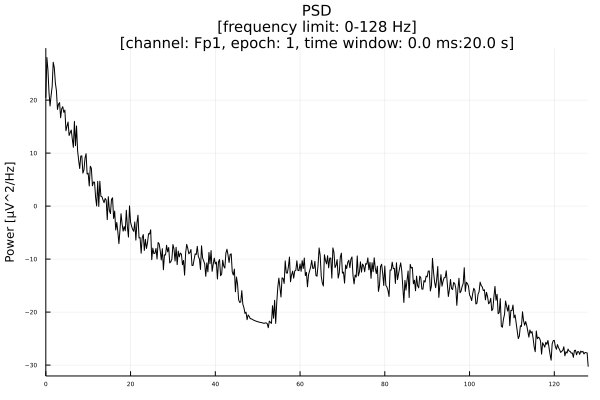
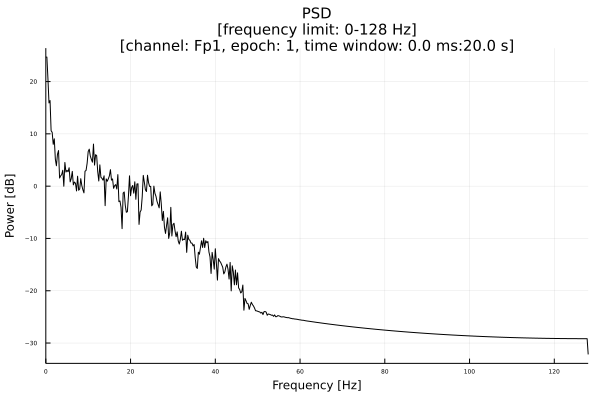
update: Tutorial.md

diff --git a/Tutorial.md b/Tutorial.md
@@ -37,6 +37,7 @@ The tutorial is divided into five major steps of typical pipeline:
 Load EDF file:
 ```julia
 edf = eeg_import_edf("test/eeg-test-edf.edf")
+eeg_delete_channel!(edf, channel=[17, 18, 22, 23, 24]);
 ```
 
 Load electrode positions (CED, LOCS and ELC formats are supported):
@@ -48,11 +49,12 @@ eeg_plot_save(p, file_name="images/edf_electrodes.png")
 
 ![edf electrodes](images/edf_electrodes.png)
 
-Swap axes:
+If necessary, swap axes:
 ```julia
 eeg_loc_swap_axes!(edf)
-eeg_plot_electrodes(edf, labels=true, head=true, selected=1:19, size=(400, 400))
+p = eeg_plot_electrodes(edf, labels=true, head=true, selected=1:19, size=(400, 400))
 ```
+![](images//edf_electrodes_xy.png)
 
 Save EEG object as HDF5-based file:
 ```julia
@@ -91,7 +93,7 @@ Edit EEG header:
 ```julia
 eeg_show_header(edf)
 eeg_edit_header!(edf, field=:patient, value="N.N.")
-eeg_edit_header!(edf, field=:comment, value="This is a tutorial EEG dataset.")
+eeg_edit_header!(edf, field=:note, value="This is a tutorial EEG dataset.")
 ```
 
 Add note:
@@ -119,11 +121,6 @@ edf.eeg_header[:eeg_duration_seconds]
 Show labels:
 ```julia
 eeg_labels(edf)
-```
-
-Show comment:
-```julia
-eeg_comment(edf)
 ```
 
 Get channel (by name or number):
@@ -158,7 +155,7 @@ edf1 = eeg_replace_channel(edf, channel=1, signal=ch)
 
 Remove parts of the signal (all lengths are in samples, use `eeg_t2s()` or `time * sampling rate` to convert time to samples):
 ```julia
-edf = eeg_trim(edf, len=(10*eeg_sr(edf)), from=:start)
+eeg_trim!(edf, len=(10*eeg_sr(edf)), from=:start)
 edf = eeg_trim(edf, len=(10*eeg_sr(edf)), offset=(10*eeg_sr(edf)), from=:start)
 eeg_trim!(edf, len=(10*eeg_sr(edf)), from=:end)
 ```
@@ -525,7 +522,7 @@ aec, aec_p = eeg_aec(e10, e10, channel1=3, channel2=4, epoch1=10, epoch2=10)
 
 Plot multi-channel:
 ```julia
-p = eeg_plot_signal(edf, scaled=false)
+p = eeg_plot_signal(edf, scaled=false, channel=1:19)
 eeg_plot_save(p, file_name="images/edf_channels.png")
 p = eeg_plot_signal(edf, scaled=true)
 eeg_plot_save(p, file_name="images/edf_channels-2.png")
@@ -544,7 +541,7 @@ Plot single-channel:
 ```julia
 p = eeg_plot_signal(edf, channel=1)
 eeg_plot_save(p, file_name="images/edf_channel_1_simple.png")
-p = eeg_plot_signal_details(edf, channel=1, frq_lim=(0, 20))
+p = eeg_plot_signal_details(edf, channel=1, frq_lim=(0, 40))
 eeg_plot_save(p, file_name="images/edf_channel_1.png")
 ```
 
